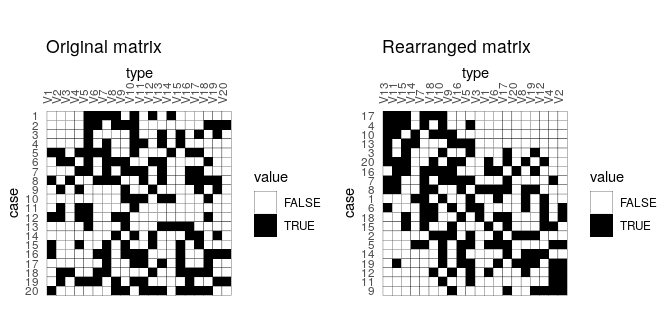
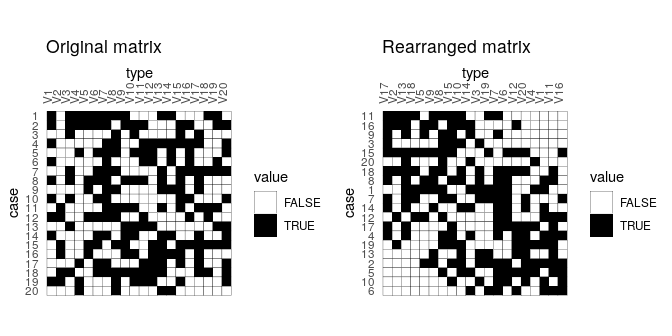
Add DOI

diff --git a/README.md b/README.md
@@ -7,7 +7,7 @@
 tabula <img width=120px src="man/figures/logo.svg" align="right" />
 ===================================================================
 
-[![Build Status](https://travis-ci.org/nfrerebeau/tabula.svg?branch=master)](https://travis-ci.org/nfrerebeau/tabula) [![CRAN\_Status\_Badge](http://www.r-pkg.org/badges/version/tabula)](https://cran.r-project.org/package=tabula) [![lifecycle](https://img.shields.io/badge/lifecycle-experimental-orange.svg)](https://www.tidyverse.org/lifecycle/#experimental)
+[![Build Status](https://travis-ci.org/nfrerebeau/tabula.svg?branch=master)](https://travis-ci.org/nfrerebeau/tabula) [![CRAN\_Status\_Badge](http://www.r-pkg.org/badges/version/tabula)](https://cran.r-project.org/package=tabula) [![lifecycle](https://img.shields.io/badge/lifecycle-experimental-orange.svg)](https://www.tidyverse.org/lifecycle/#experimental) [![DOI](https://zenodo.org/badge/DOI/10.5281/zenodo.1489944.svg)](https://doi.org/10.5281/zenodo.1489944)
 
 Overview
 --------
@@ -166,8 +166,8 @@ incidence <- IncidenceMatrix(data = sample(0:1, 400, TRUE, c(0.6, 0.4)),
 # Correspondance analysis-based seriation
 (indices <- seriate(incidence, method = "correspondance", margin = c(1, 2)))
 #> Permutation order for matrix seriation: 
-#>    Row order: 17 4 10 13 3 20 16 7 8 1 6 18 15 2 5 14 19 12 11 9 
-#>    Column order: 13 11 15 14 7 18 10 9 16 5 3 1 6 17 20 8 19 12 4 2 
+#>    Row order: 11 16 9 3 15 20 18 8 1 7 14 12 17 4 19 13 2 5 10 6 
+#>    Column order: 17 2 13 18 5 9 8 15 10 14 3 19 7 6 12 20 4 1 11 16 
 #>    Method: correspondance
 ```
 
